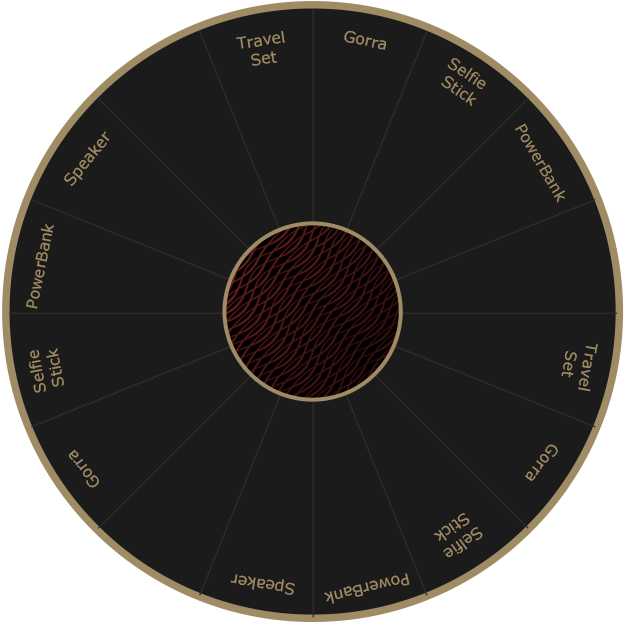
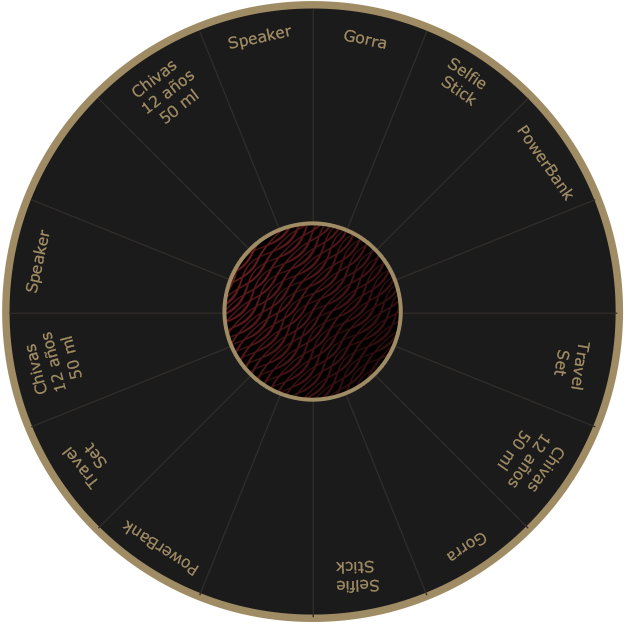
Chivas 12 anos

diff --git a/app/controllers/gifts_controller.rb b/app/controllers/gifts_controller.rb
@@ -71,26 +71,28 @@ class GiftsController < ApplicationController
     if g.gifts.blank?
       #Chivas Flask
       Gift.create!([type_g: 0, name: 'Gorra', position: 10, event_id: params[:event_id], inventory: params[:gifts][:gorra], predicted: params[:gifts][:gorra], priority: 1, image: 'g-gorra.png'])
-      Gift.create!([type_g: 0, name: 'Gorra', position: 340, event_id: params[:event_id], inventory: params[:gifts][:gorra1], predicted: params[:gifts][:gorra1], priority: 1, image: 'g-gorra.png'])
-      Gift.create!([type_g: 0, name: 'Gorra', position: 120, event_id: params[:event_id], inventory: params[:gifts][:gorra2], predicted: params[:gifts][:gorra2], priority: 1, image: 'g-gorra.png'])
-      #type_g: 10 es para los regalos en blanco. Estos deben tener inventario para que funcionen correctamente
-        Gift.create!([type_g: 10, name: 'Regalo EN BLANCO', position: 320, event_id: params[:event_id], inventory: 1, predicted:  1, priority: 1])
+      Gift.create!([type_g: 0, name: 'Gorra', position: 140, event_id: params[:event_id], inventory: params[:gifts][:gorra1], predicted: params[:gifts][:gorra1], priority: 1, image: 'g-gorra.png'])
 
-      Gift.create!([type_g: 1, name: 'Selfie Stick', position: 140, event_id: params[:event_id], inventory: params[:gifts][:selfie], predicted: params[:gifts][:selfie], priority: 1, image: 'g-selfie.png'])
+      Gift.create!([type_g: 5, name: 'Chivas 12 años 50ml', position: 120, event_id: params[:event_id], inventory: params[:gifts][:ml], predicted: params[:gifts][:ml], priority: 1, image: 'g-ml.jpg'])
+      Gift.create!([type_g: 5, name: 'Chivas 12 años 50ml', position: 250, event_id: params[:event_id], inventory: params[:gifts][:ml1], predicted: params[:gifts][:ml1], priority: 1, image: 'g-ml.jpg'])
+      Gift.create!([type_g: 5, name: 'Chivas 12 años 50ml', position: 320, event_id: params[:event_id], inventory: params[:gifts][:ml2], predicted: params[:gifts][:ml2], priority: 1, image: 'g-ml.jpg'])
+
+      #type_g: 10 es para los regalos en blanco. Estos deben tener inventario para que funcionen correctamente
+        Gift.create!([type_g: 10, name: 'Regalo EN BLANCO', position: 85, event_id: params[:event_id], inventory: 1, predicted:  1, priority: 1])
+        Gift.create!([type_g: 10, name: 'Regalo EN BLANCO', position: 300, event_id: params[:event_id], inventory: 1, predicted:  1, priority: 1])
+        Gift.create!([type_g: 10, name: 'Regalo EN BLANCO', position: 185, event_id: params[:event_id], inventory: 1, predicted:  1, priority: 1])
+
+      Gift.create!([type_g: 1, name: 'Selfie Stick', position: 160, event_id: params[:event_id], inventory: params[:gifts][:selfie], predicted: params[:gifts][:selfie], priority: 1, image: 'g-selfie.png'])
       Gift.create!([type_g: 1, name: 'Selfie Stick', position: 30, event_id: params[:event_id], inventory: params[:gifts][:selfie1], predicted:  params[:gifts][:selfie1], priority: 1, image: 'g-selfie.png'])
-      Gift.create!([type_g: 1, name: 'Selfie Stick', position: 250, event_id: params[:event_id], inventory: params[:gifts][:selfie2], predicted: params[:gifts][:selfie2], priority: 1, image: 'g-selfie.png'])
 
       Gift.create!([type_g: 2, name: 'PowerBank', position: 55, event_id: params[:event_id], inventory: params[:gifts][:power], predicted: params[:gifts][:power], priority: 1, image: 'g-power.png'])
-      Gift.create!([type_g: 2, name: 'PowerBank', position: 160, event_id: params[:event_id], inventory: params[:gifts][:power1], predicted: params[:gifts][:power1], priority: 1, image: 'g-power.png'])
-      Gift.create!([type_g: 2, name: 'PowerBank', position: 275, event_id: params[:event_id], inventory: params[:gifts][:power2], predicted: params[:gifts][:power2], priority: 1, image: 'g-power.png'])
+      Gift.create!([type_g: 2, name: 'PowerBank', position: 205, event_id: params[:event_id], inventory: params[:gifts][:power1], predicted: params[:gifts][:power1], priority: 1, image: 'g-power.png'])
 
       Gift.create!([type_g: 3, name: 'Travel Set', position: 105, event_id: params[:event_id], inventory: params[:gifts][:travel], predicted:  params[:gifts][:travel], priority: 1, image: 'g-travel.png'])
-        Gift.create!([type_g: 10, name: 'Regalo EN BLANCO', position: 205, event_id: params[:event_id], inventory: 1, predicted:  1, priority: 1])
-      Gift.create!([type_g: 3, name: 'Travel Set', position: 225, event_id: params[:event_id], inventory: params[:gifts][:travel2], predicted: params[:gifts][:travel2], priority: 1, image: 'g-travel.png'])
+      Gift.create!([type_g: 3, name: 'Travel Set', position: 225, event_id: params[:event_id], inventory: params[:gifts][:travel1], predicted: params[:gifts][:travel1], priority: 1, image: 'g-travel.png'])
 
-      Gift.create!([type_g: 4, name: 'Speaker', position: 185, event_id: params[:event_id], inventory: params[:gifts][:speaker], predicted:  params[:gifts][:speaker], priority: 1, image: 'g-speaker.png'])
-        Gift.create!([type_g: 10, name: 'Regalo EN BLANCO', position: 85, event_id: params[:event_id], inventory: 1, predicted:  1, priority: 1])
-      Gift.create!([type_g: 4, name: 'Speaker', position: 300, event_id: params[:event_id], inventory: params[:gifts][:speaker2], predicted: params[:gifts][:speaker2], priority: 1, image: 'g-speaker.png'])
+      Gift.create!([type_g: 4, name: 'Speaker', position: 275, event_id: params[:event_id], inventory: params[:gifts][:speaker1], predicted: params[:gifts][:speaker1], priority: 1, image: 'g-speaker.png'])
+      Gift.create!([type_g: 4, name: 'Speaker', position: 340, event_id: params[:event_id], inventory: params[:gifts][:speaker2], predicted: params[:gifts][:speaker2], priority: 1, image: 'g-speaker.png'])
 
       redirect_to event_path(params[:event_id]), notice: "Todos los regalos fueron creados"
     else
